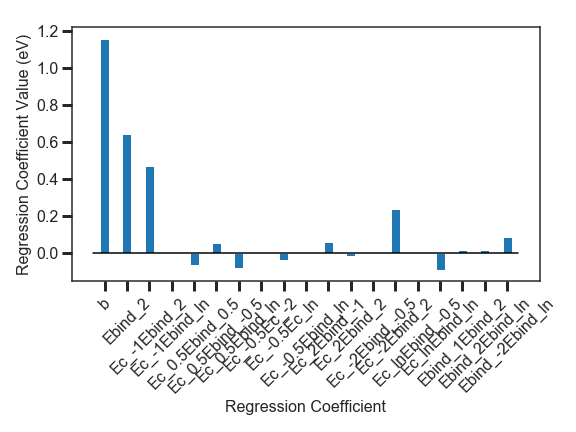
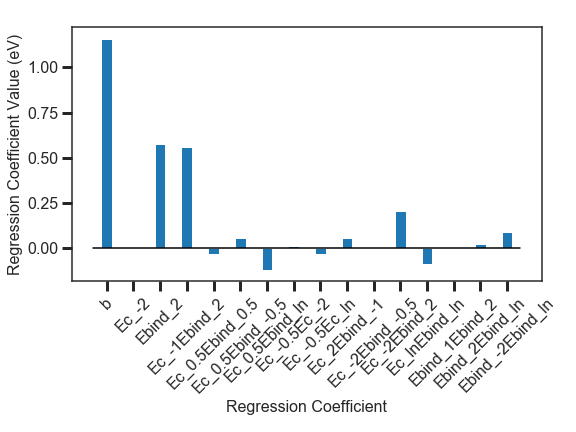
updated csv file

diff --git a/v2/Ea.py b/v2/Ea.py
@@ -52,7 +52,8 @@ read adsoprtion energy and barder charge from a csv file
 '''
 data = pd.read_csv('Ea_data.csv', header = 0)
 
-metal = np.array(data['Metal'])
+metal = np.array(data['metal'])
+support = np.array(data['support'])
 Ec = np.array(data['Ec_DFT'])
 Ebind = np.array(data['Ebind'])
 Ea = np.array(data['Ea'])
@@ -685,7 +686,7 @@ r2s = np.array([ USM_r2,  lasso_r2, enet_min_r2, ridge_r2,  GP_r2])
 x_pos = np.arange(len(regression_method))
 base_line = 0
 
-opacity = 0.5
+opacity = 0.7
 bar_width = 0.25
 sns.set_style("white")
 fig, ax1 = plt.subplots(figsize=(8,8))
@@ -712,3 +713,45 @@ ax2.set_ylim([0.9, 1])
 ax2.tick_params('y', colors='royalblue')
 plt.tight_layout()
 fig.savefig(os.path.join(output_dir, model_name + '_performance.png'))
+
+
+#%%
+
+'''
+USM performance plot based on metal and support
+'''
+
+model_name = 'USM'
+output_dir = os.path.join(base_dir, model_name)
+if not os.path.exists(output_dir): os.makedirs(output_dir)    
+
+metal_types = np.unique(metal)
+cm = ['r', 'b', 'purple', 'k', 'g', 'orange', 'pink', 'cyan', 'lightgreen']
+support_types = np.unique(support)
+
+
+def parity_plot_st(yobj, ypred, types, model_name, out_dir):
+    '''
+    Plot the parity plot of y vs ypred
+    return R2 score and MSE for the model
+    colorcode different site types
+    '''
+
+    fig, ax = plt.subplots(figsize=(7, 7))
+    for type_i, ci in zip(types, cm):
+        indices = np.where(np.array(metal) == type_i)[0]
+        ax.scatter(yobj[indices],
+                    ypred[indices],
+                    label=type_i,
+                    facecolor = ci, 
+                    alpha = 0.8,
+                    s  = 60)
+    ax.plot([yobj.min(), yobj.max()], [yobj.min(), yobj.max()], 'k--',  lw=2)
+    ax.set_xlabel('DFT-Calculated (eV) ')
+    ax.set_ylabel('Model Prediction (eV)')
+    #plt.title(r'{}, RMSE-{:.2}, $r^2$ -{:.2}'.format(model_name, RMSE, r2))
+    plt.text(4,6, '$R^2$ = 0.958')
+    plt.legend(bbox_to_anchor = (1.02, 1),loc= 'upper left', frameon=False)
+    fig.savefig(os.path.join(output_dir, model_name + '_parity_st.png'))
+
+parity_plot_st(y, USM.predict(X_USM), model_name, output_dir)
